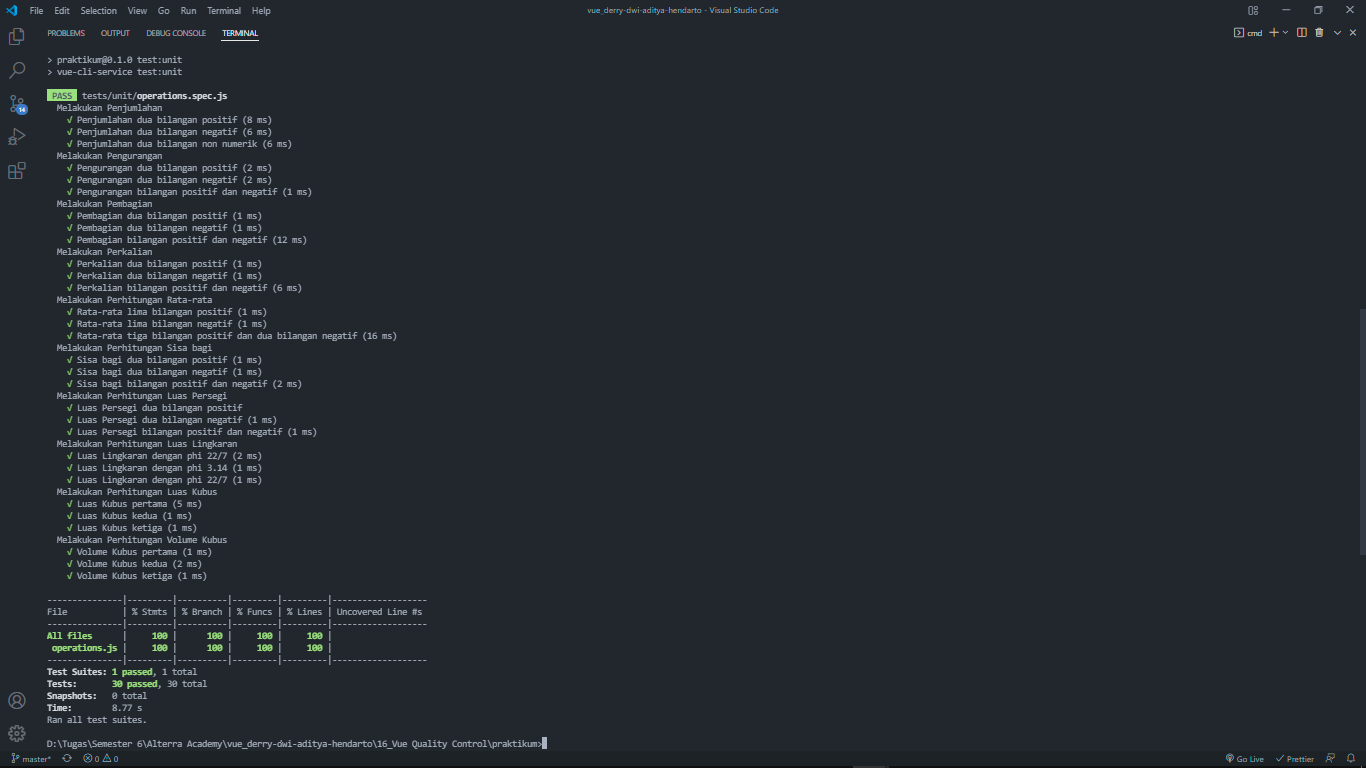
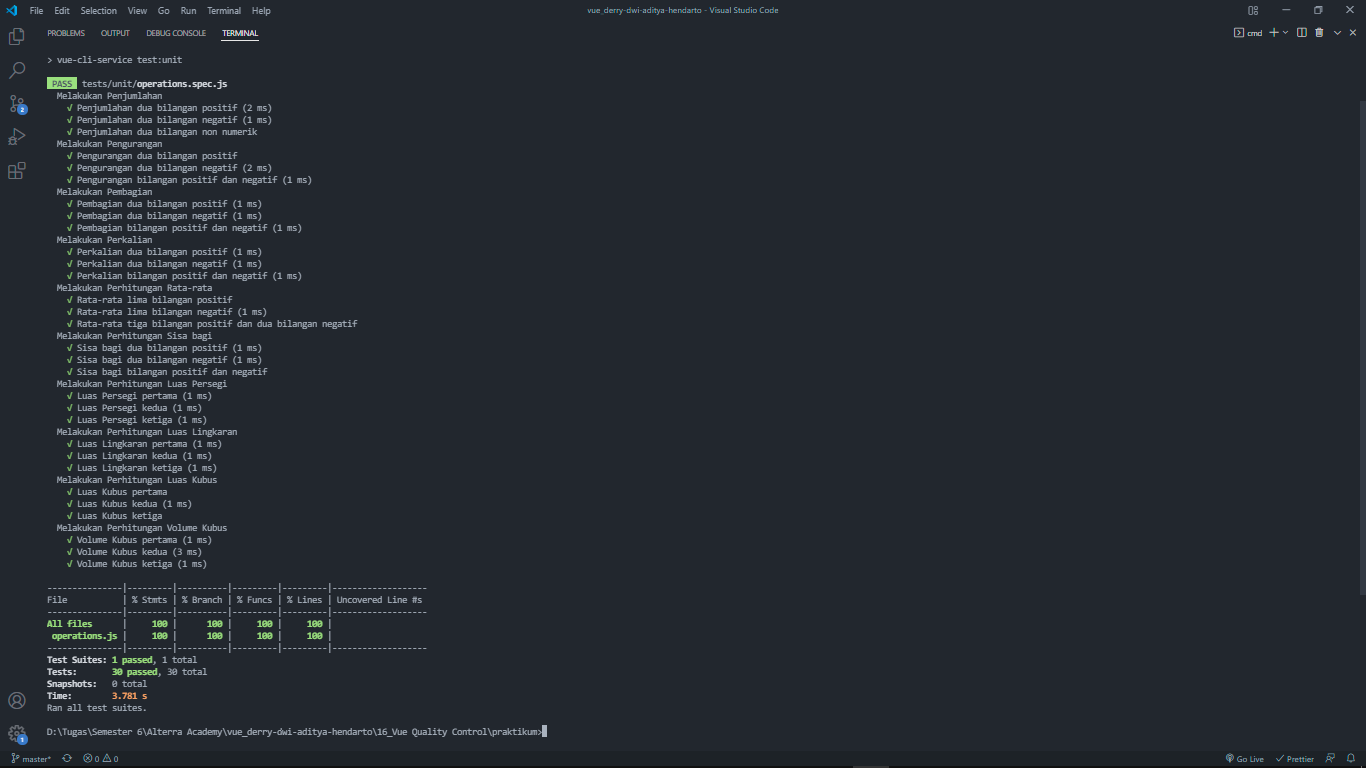
update task section 16

Changed region(s): [[0.0, 0.0625, 0.3997, 1.0]]

diff --git a/16_Vue Quality Control/praktikum/tests/unit/operations.spec.js b/16_Vue Quality Control/praktikum/tests/unit/operations.spec.js
@@ -76,7 +76,7 @@ describe('Melakukan Perhitungan Rata-rata', () => {
   });
 });
 
-// Sisa bagi
+// Sisa Bagi
 describe('Melakukan Perhitungan Sisa bagi', () => {
   test('Sisa bagi dua bilangan positif', () => {
     expect(sisaBagi(2, 4)).toBe(2);
@@ -91,52 +91,52 @@ describe('Melakukan Perhitungan Sisa bagi', () => {
 
 // Luas Persegi
 describe('Melakukan Perhitungan Luas Persegi', () => {
-  test('Luas Persegi dua bilangan positif', () => {
-    expect(luasPersegi(2, 4)).toBe(8);
+  test('Luas Persegi pertama', () => {
+    expect(luasPersegi(2, 2)).toBe(4);
   });
-  test('Luas Persegi dua bilangan negatif', () => {
-    expect(luasPersegi(-10, -2)).toBe(20);
+  test('Luas Persegi kedua', () => {
+    expect(luasPersegi(10, 10)).toBe(100);
   });
-  test('Luas Persegi bilangan positif dan negatif', () => {
-    expect(luasPersegi(22, -4)).toBe(-88);
+  test('Luas Persegi ketiga', () => {
+    expect(luasPersegi(22, 22)).toBe(484);
   });
 });
 
 // Luas Lingkaran
 describe('Melakukan Perhitungan Luas Lingkaran', () => {
-  test('Luas Lingkaran dengan phi 22/7', () => {
-    expect(luasLingkaran(22 / 7, 8)).toBe(201.14285714285714);
+  test('Luas Lingkaran pertama', () => {
+    expect(luasLingkaran(3.14, 7)).toBe(153.86);
   });
-  test('Luas Lingkaran dengan phi 3.14', () => {
+  test('Luas Lingkaran kedua', () => {
     expect(luasLingkaran(3.14, 17)).toBe(907.46);
   });
-  test('Luas Lingkaran dengan phi 22/7', () => {
-    expect(luasLingkaran(22 / 7, 16)).toBe(804.5714285714286);
+  test('Luas Lingkaran ketiga', () => {
+    expect(luasLingkaran(3.14, 12)).toBe(452.16);
   });
 });
 
 // Luas Kubus
 describe('Melakukan Perhitungan Luas Kubus', () => {
   test('Luas Kubus pertama', () => {
-    expect(luasKubus(2, 4, 6)).toBe(96);
+    expect(luasKubus(6, 8, 8)).toBe(384);
   });
   test('Luas Kubus kedua', () => {
-    expect(luasKubus(10, 2, 4)).toBe(160);
+    expect(luasKubus(6, 3, 3)).toBe(54);
   });
   test('Luas Kubus ketiga', () => {
-    expect(luasKubus(22, 8, 4)).toBe(1408);
+    expect(luasKubus(6, 7, 7)).toBe(294);
   });
 });
 
 // Volume Kubus
 describe('Melakukan Perhitungan Volume Kubus', () => {
   test('Volume Kubus pertama', () => {
-    expect(volumeKubus(2, 4, 6)).toBe(48);
+    expect(volumeKubus(8, 8, 8)).toBe(512);
   });
   test('Volume Kubus kedua', () => {
-    expect(volumeKubus(10, 2, 4)).toBe(80);
+    expect(volumeKubus(12, 12, 12)).toBe(1728);
   });
   test('Volume Kubus ketiga', () => {
-    expect(volumeKubus(22, 8, 4)).toBe(704);
+    expect(volumeKubus(9, 9, 9)).toBe(729);
   });
 });

diff --git a/16_Vue Quality Control/praktikum/src/utils/operations.js b/16_Vue Quality Control/praktikum/src/utils/operations.js
@@ -31,18 +31,18 @@ export const sisaBagi = (variabelSatu, variabelDua) => {
   return variabelSatu % variabelDua;
 };
 
-export const luasPersegi = (variabelSatu, variabelDua) => {
-  return variabelSatu * variabelDua;
+export const luasPersegi = (panjang, lebar) => {
+  return panjang * lebar;
 };
 
-export const luasLingkaran = (variabelSatu, variabelDua) => {
-  return variabelSatu * variabelDua ** 2;
+export const luasLingkaran = (PHI, jariJari) => {
+  return PHI * jariJari ** 2;
 };
 
-export const luasKubus = (variabelSatu, variabelDua, variabelTiga) => {
-  return 2 * variabelSatu * variabelDua * variabelTiga;
+export const luasKubus = (JUMLAH_SISI, panjang, lebar) => {
+  return JUMLAH_SISI * panjang * lebar;
 };
 
-export const volumeKubus = (variabelSatu, variabelDua, variabelTiga) => {
-  return variabelSatu * variabelDua * variabelTiga;
+export const volumeKubus = (panjang, lebar, tinggi) => {
+  return panjang * lebar * tinggi;
 };
